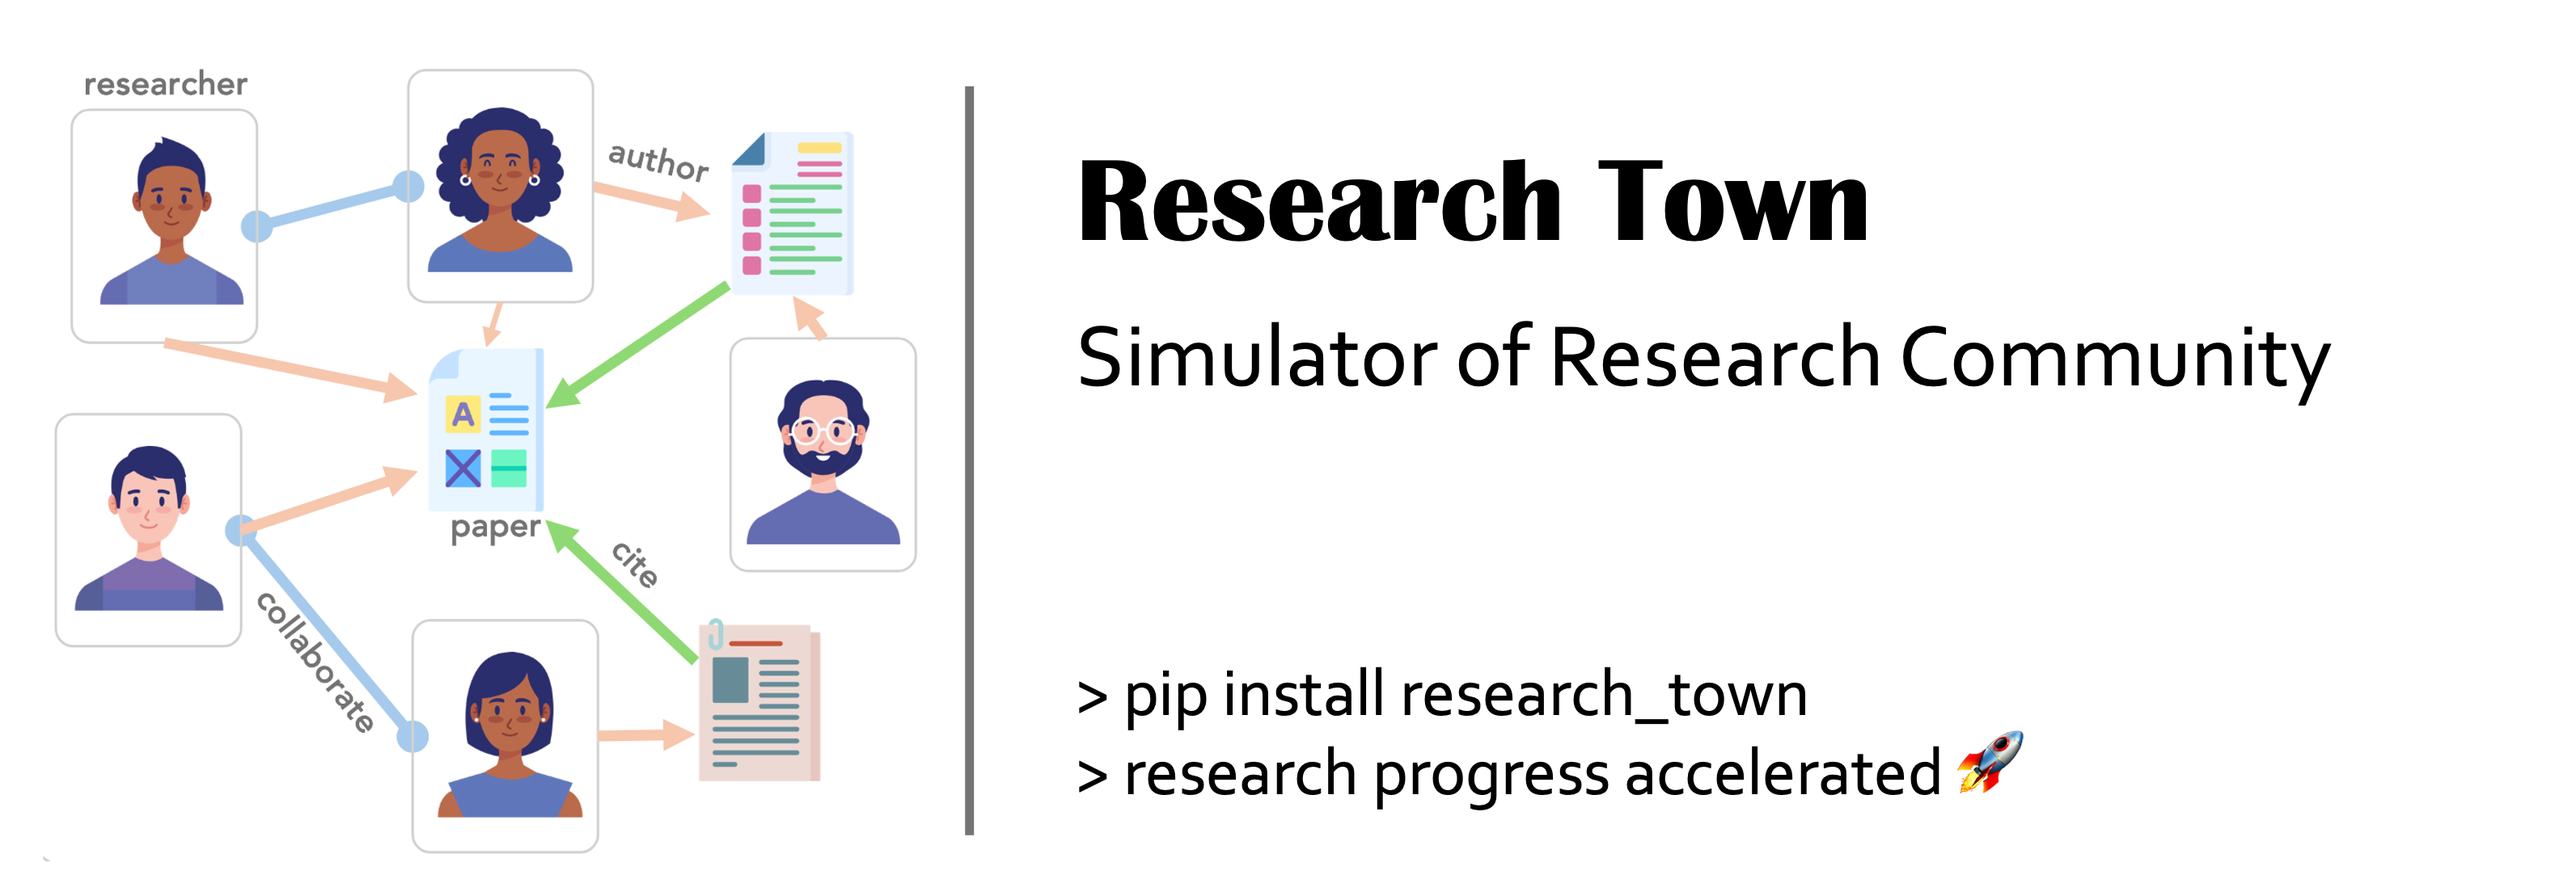
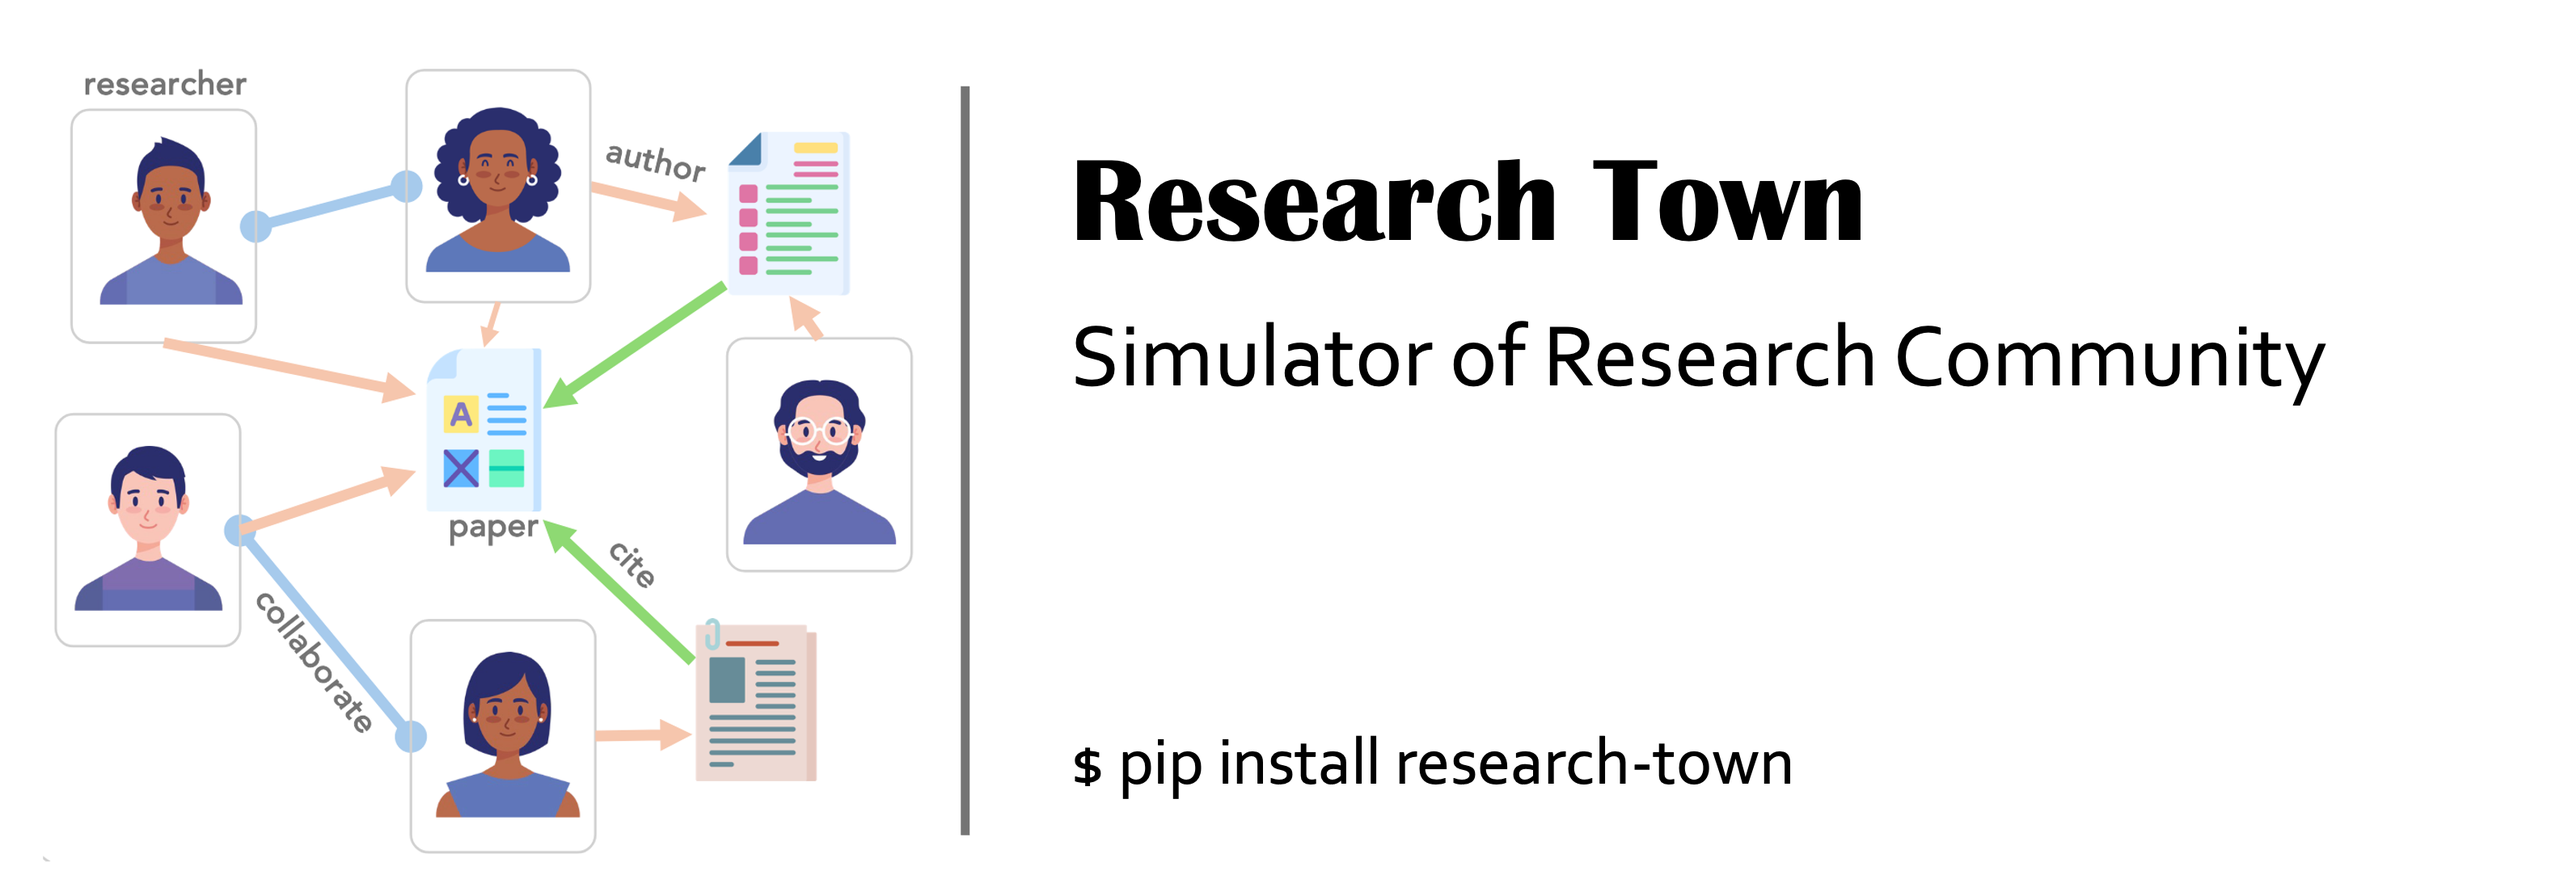
chagne package name

diff --git a/README.md b/README.md
@@ -28,10 +28,10 @@
 
 ### Install from pip
 
-You can install `research_town` from `pypi` to use it as a package:
+You can install `research-town` from `pypi` to use it as a package:
 
 ```bash
-pip install research_town
+pip install research-town
 ```
 
 ### Install from scratch
